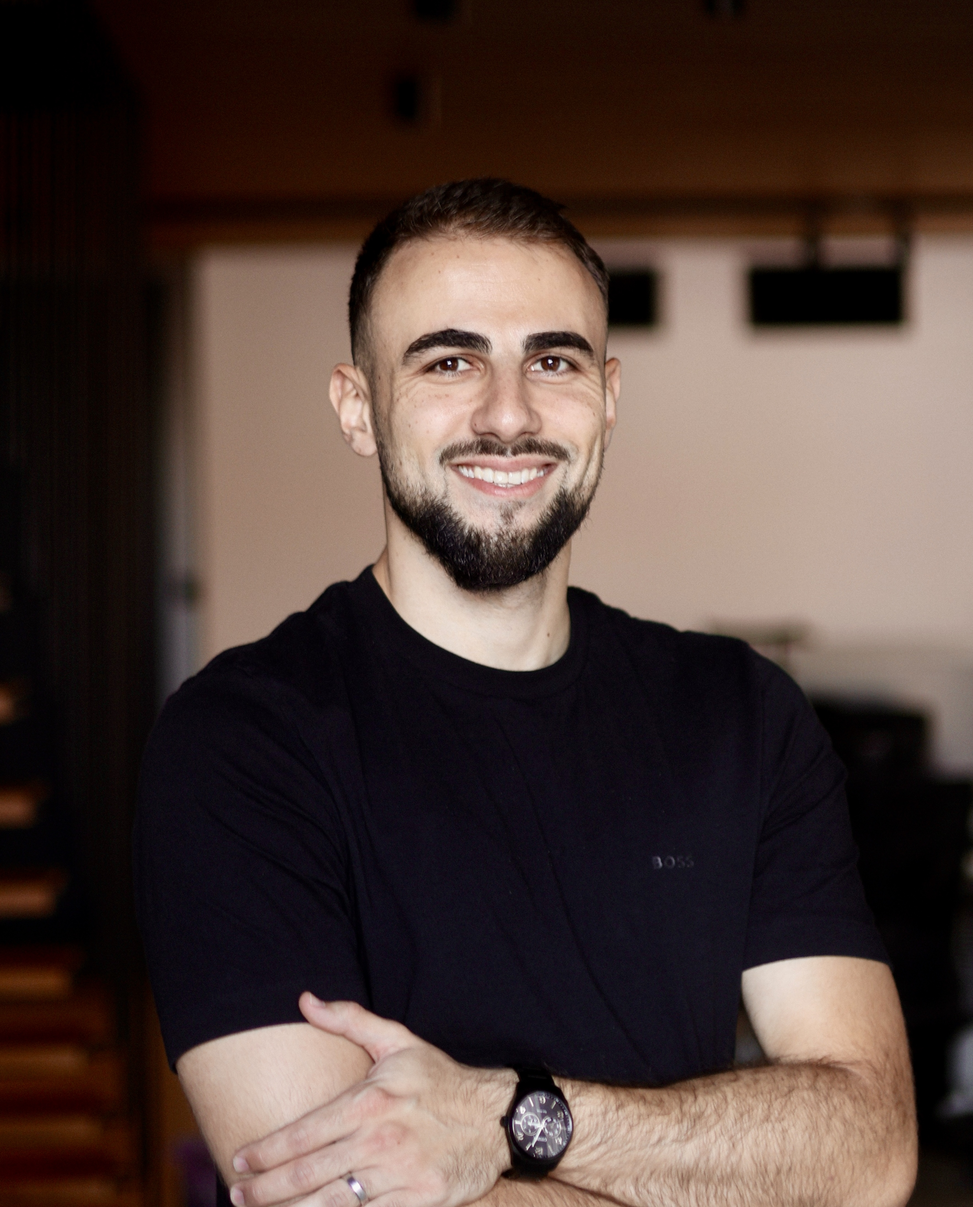
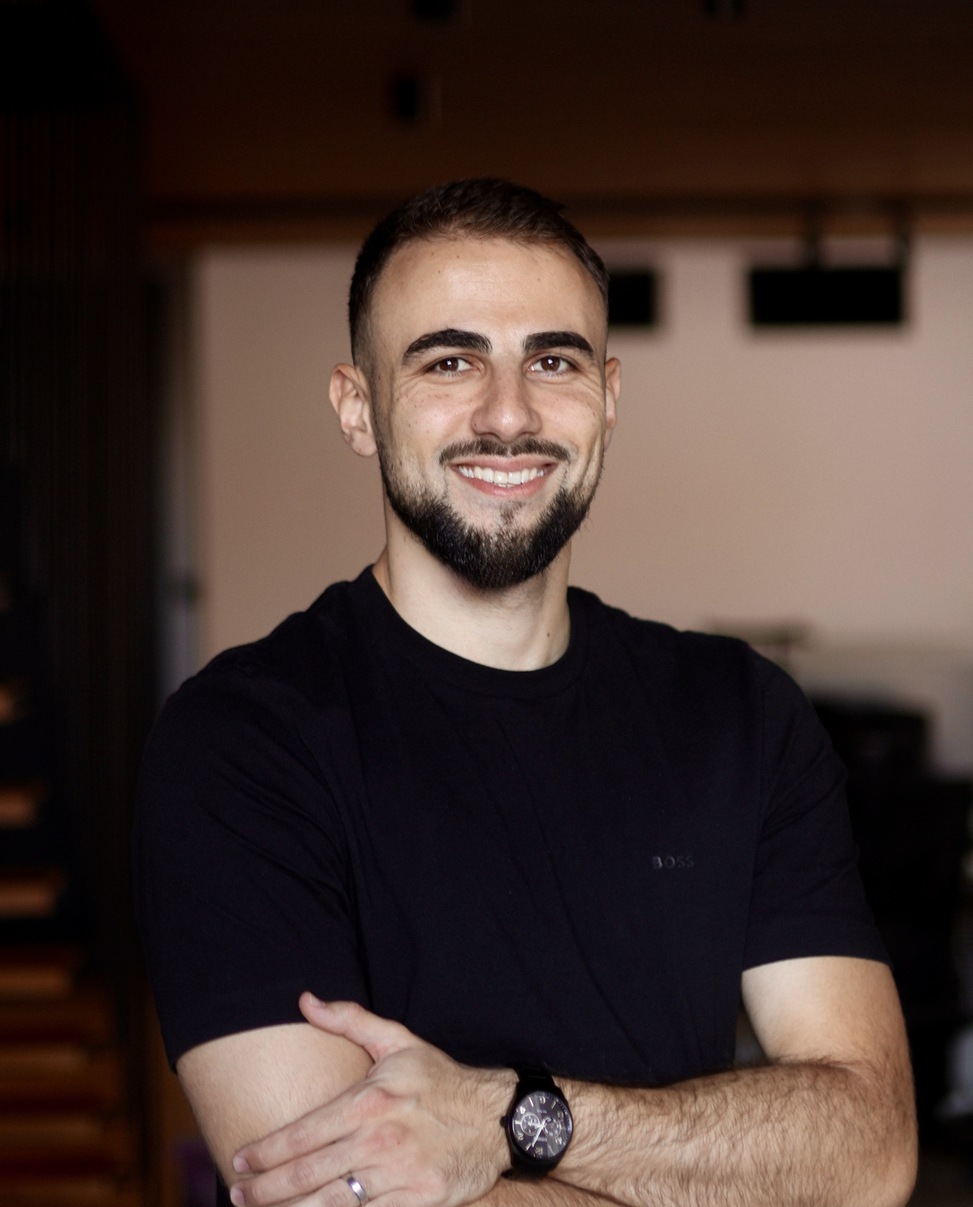
copy updates

diff --git a/src/components/solo-vs-agency.tsx b/src/components/solo-vs-agency.tsx
@@ -1,0 +1,73 @@
+import Image from "next/image";
+import { comparisons } from "@/lib/data";
+
+export function SoloVsAgency() {
+  return (
+    <section
+      id="why-me"
+      className="scroll-mt-24 border-t border-border/60 bg-background"
+    >
+      <div className="mx-auto max-w-4xl px-6 py-24 sm:py-32">
+        <h2 className="mb-4 text-sm font-medium tracking-widest text-muted uppercase">
+          Solo vs. agency
+        </h2>
+        <p className="mb-12 text-sm text-muted">
+          A straight comparison, row by row.
+        </p>
+
+        <p className="mb-4 text-xs text-muted sm:hidden">
+          <span className="text-accent">✓</span> working with me &nbsp;
+          <span className="text-muted">✕</span> typical agency
+        </p>
+
+        <div className="overflow-hidden rounded-2xl border border-border">
+          <div className="hidden grid-cols-[1fr_1.3fr_1.3fr] sm:grid">
+            <div className="border-b border-border bg-background-elevated p-5" />
+            <div className="flex items-center gap-2.5 border-b border-l border-border bg-background-elevated p-5">
+              <Image
+                src="/photo.jpg"
+                alt=""
+                width={24}
+                height={24}
+                className="h-6 w-6 rounded-full object-cover"
+              />
+              <span className="text-sm font-semibold text-accent">
+                Working with me
+              </span>
+            </div>
+            <div className="border-b border-l border-border bg-background-elevated p-5">
+              <span className="text-sm font-semibold text-muted">
+                Typical agency
+              </span>
+            </div>
+          </div>
+
+          {comparisons.map((row, i) => (
+            <div
+              key={row.label}
+              className={`flex flex-col gap-3 p-6 transition-colors hover:bg-background-elevated/60 sm:grid sm:grid-cols-[1fr_1.3fr_1.3fr] sm:items-center sm:gap-0 sm:p-0 ${
+                i !== comparisons.length - 1 ? "border-b border-border" : ""
+              }`}
+            >
+              <p className="text-sm font-semibold tracking-tight sm:p-5">
+                {row.label}
+              </p>
+              <div className="flex items-start gap-2 sm:border-l sm:border-border sm:p-5">
+                <span aria-hidden className="mt-0.5 shrink-0 text-accent">
+                  ✓
+                </span>
+                <p className="text-sm text-foreground">{row.me}</p>
+              </div>
+              <div className="flex items-start gap-2 sm:border-l sm:border-border sm:p-5">
+                <span aria-hidden className="mt-0.5 shrink-0 text-muted">
+                  ✕
+                </span>
+                <p className="text-sm text-muted">{row.agency}</p>
+              </div>
+            </div>
+          ))}
+        </div>
+      </div>
+    </section>
+  );
+}

diff --git a/src/components/hero.tsx b/src/components/hero.tsx
@@ -12,14 +12,17 @@ export function Hero() {
       <div className="relative mx-auto flex max-w-6xl flex-col-reverse items-center gap-8 px-6 py-32 sm:py-40 md:flex-row md:items-center md:justify-between md:gap-6">
         <div className="flex flex-col items-start md:max-w-3xl">
           <h1 className="text-3xl leading-[1.15] font-semibold tracking-tight sm:text-5xl sm:leading-[1.15] md:text-6xl md:leading-[1.1]">
-            <span className="text-shine">A proven builder</span>
+            <span className="text-shine">I turn your ideas into real products.</span>
             <br />
-            7+ years of shipping.
+            Design, build, launch.
             <br />
-            Across the EU.
-            <br />
-            Industry agnostic.
+            <span className="text-shine">
+              You don&rsquo;t lift a finger.
+            </span>
           </h1>
+          {/* <p className="mt-2 text-lg text-muted sm:text-xl">
+            7+ years of building across the EU. Industry agnostic.
+          </p> */}
           <div className="mt-10 flex flex-wrap items-center gap-4">
             <Link
               href={calendlyUrl}

diff --git a/src/lib/data.ts b/src/lib/data.ts
@@ -185,6 +185,45 @@ export const skillGroups: SkillGroup[] = [
   },
 ];
 
+export type Comparison = {
+  label: string;
+  me: string;
+  agency: string;
+};
+
+export const comparisons: Comparison[] = [
+  {
+    label: "Speed",
+    me: "MVP shipped in 2-4 weeks",
+    agency: "Months, buried in process",
+  },
+  {
+    label: "Cost",
+    me: "Fixed rate, agreed in writing at the start. No markup",
+    agency: "Blended rates plus agency overhead",
+  },
+  {
+    label: "Who builds it",
+    me: "Me, every line, start to finish",
+    agency: "Reassigned between teams of devs",
+  },
+  {
+    label: "Communication",
+    me: "Direct line to the person building it",
+    agency: "Routed through account managers",
+  },
+  {
+    label: "Decisions",
+    me: "Made the same day",
+    agency: "Wait for the next status call",
+  },
+  {
+    label: "Focus",
+    me: "Your project, full attention",
+    agency: "One of several client accounts",
+  },
+];
+
 export type FaqItem = {
   question: string;
   answer: string;

diff --git a/src/components/who-i-am.tsx b/src/components/who-i-am.tsx
@@ -5,12 +5,12 @@ export function WhoIAm() {
       className="mx-auto max-w-3xl scroll-mt-24 px-6 py-24 sm:py-32"
     >
       <p className="text-2xl leading-relaxed font-medium tracking-tight text-balance sm:text-3xl">
-        Full-stack engineer and product lead, 7+ years shipping across e-health, learning management, ecommerce and machining.{" "}
+        Full-stack engineer and product lead with 7+ years shipping software across transport management, e-health, learning management, ecommerce and machining.{" "}
         <span className="text-muted">
-          I&rsquo;ve led and mentored teams, rewrote and shipped features
-          end to end, then built, marketed and sold my own SaaS product from scratch.
+          I&rsquo;ve led and mentored teams, rebuilt features end to end,
+          then built, marketed and sold my own SaaS product from scratch.
         </span>{" "}
-        Based in Bosnia, open to remote (EU).
+        Based in Bosnia, open to remote work across the EU.
       </p>
     </section>
   );

diff --git a/src/app/page.tsx b/src/app/page.tsx
@@ -2,6 +2,7 @@ import { Header } from "@/components/header";
 import { Hero } from "@/components/hero";
 import { TrustedBy } from "@/components/trusted-by";
 import { WhoIAm } from "@/components/who-i-am";
+import { SoloVsAgency } from "@/components/solo-vs-agency";
 import { HowIWork } from "@/components/how-i-work";
 import { SelectedWork } from "@/components/selected-work";
 import { Skills } from "@/components/skills";
@@ -16,6 +17,7 @@ export default function Home() {
         <Hero />
         <TrustedBy />
         <WhoIAm />
+        <SoloVsAgency />
         <HowIWork />
         <SelectedWork />
         <Skills />
